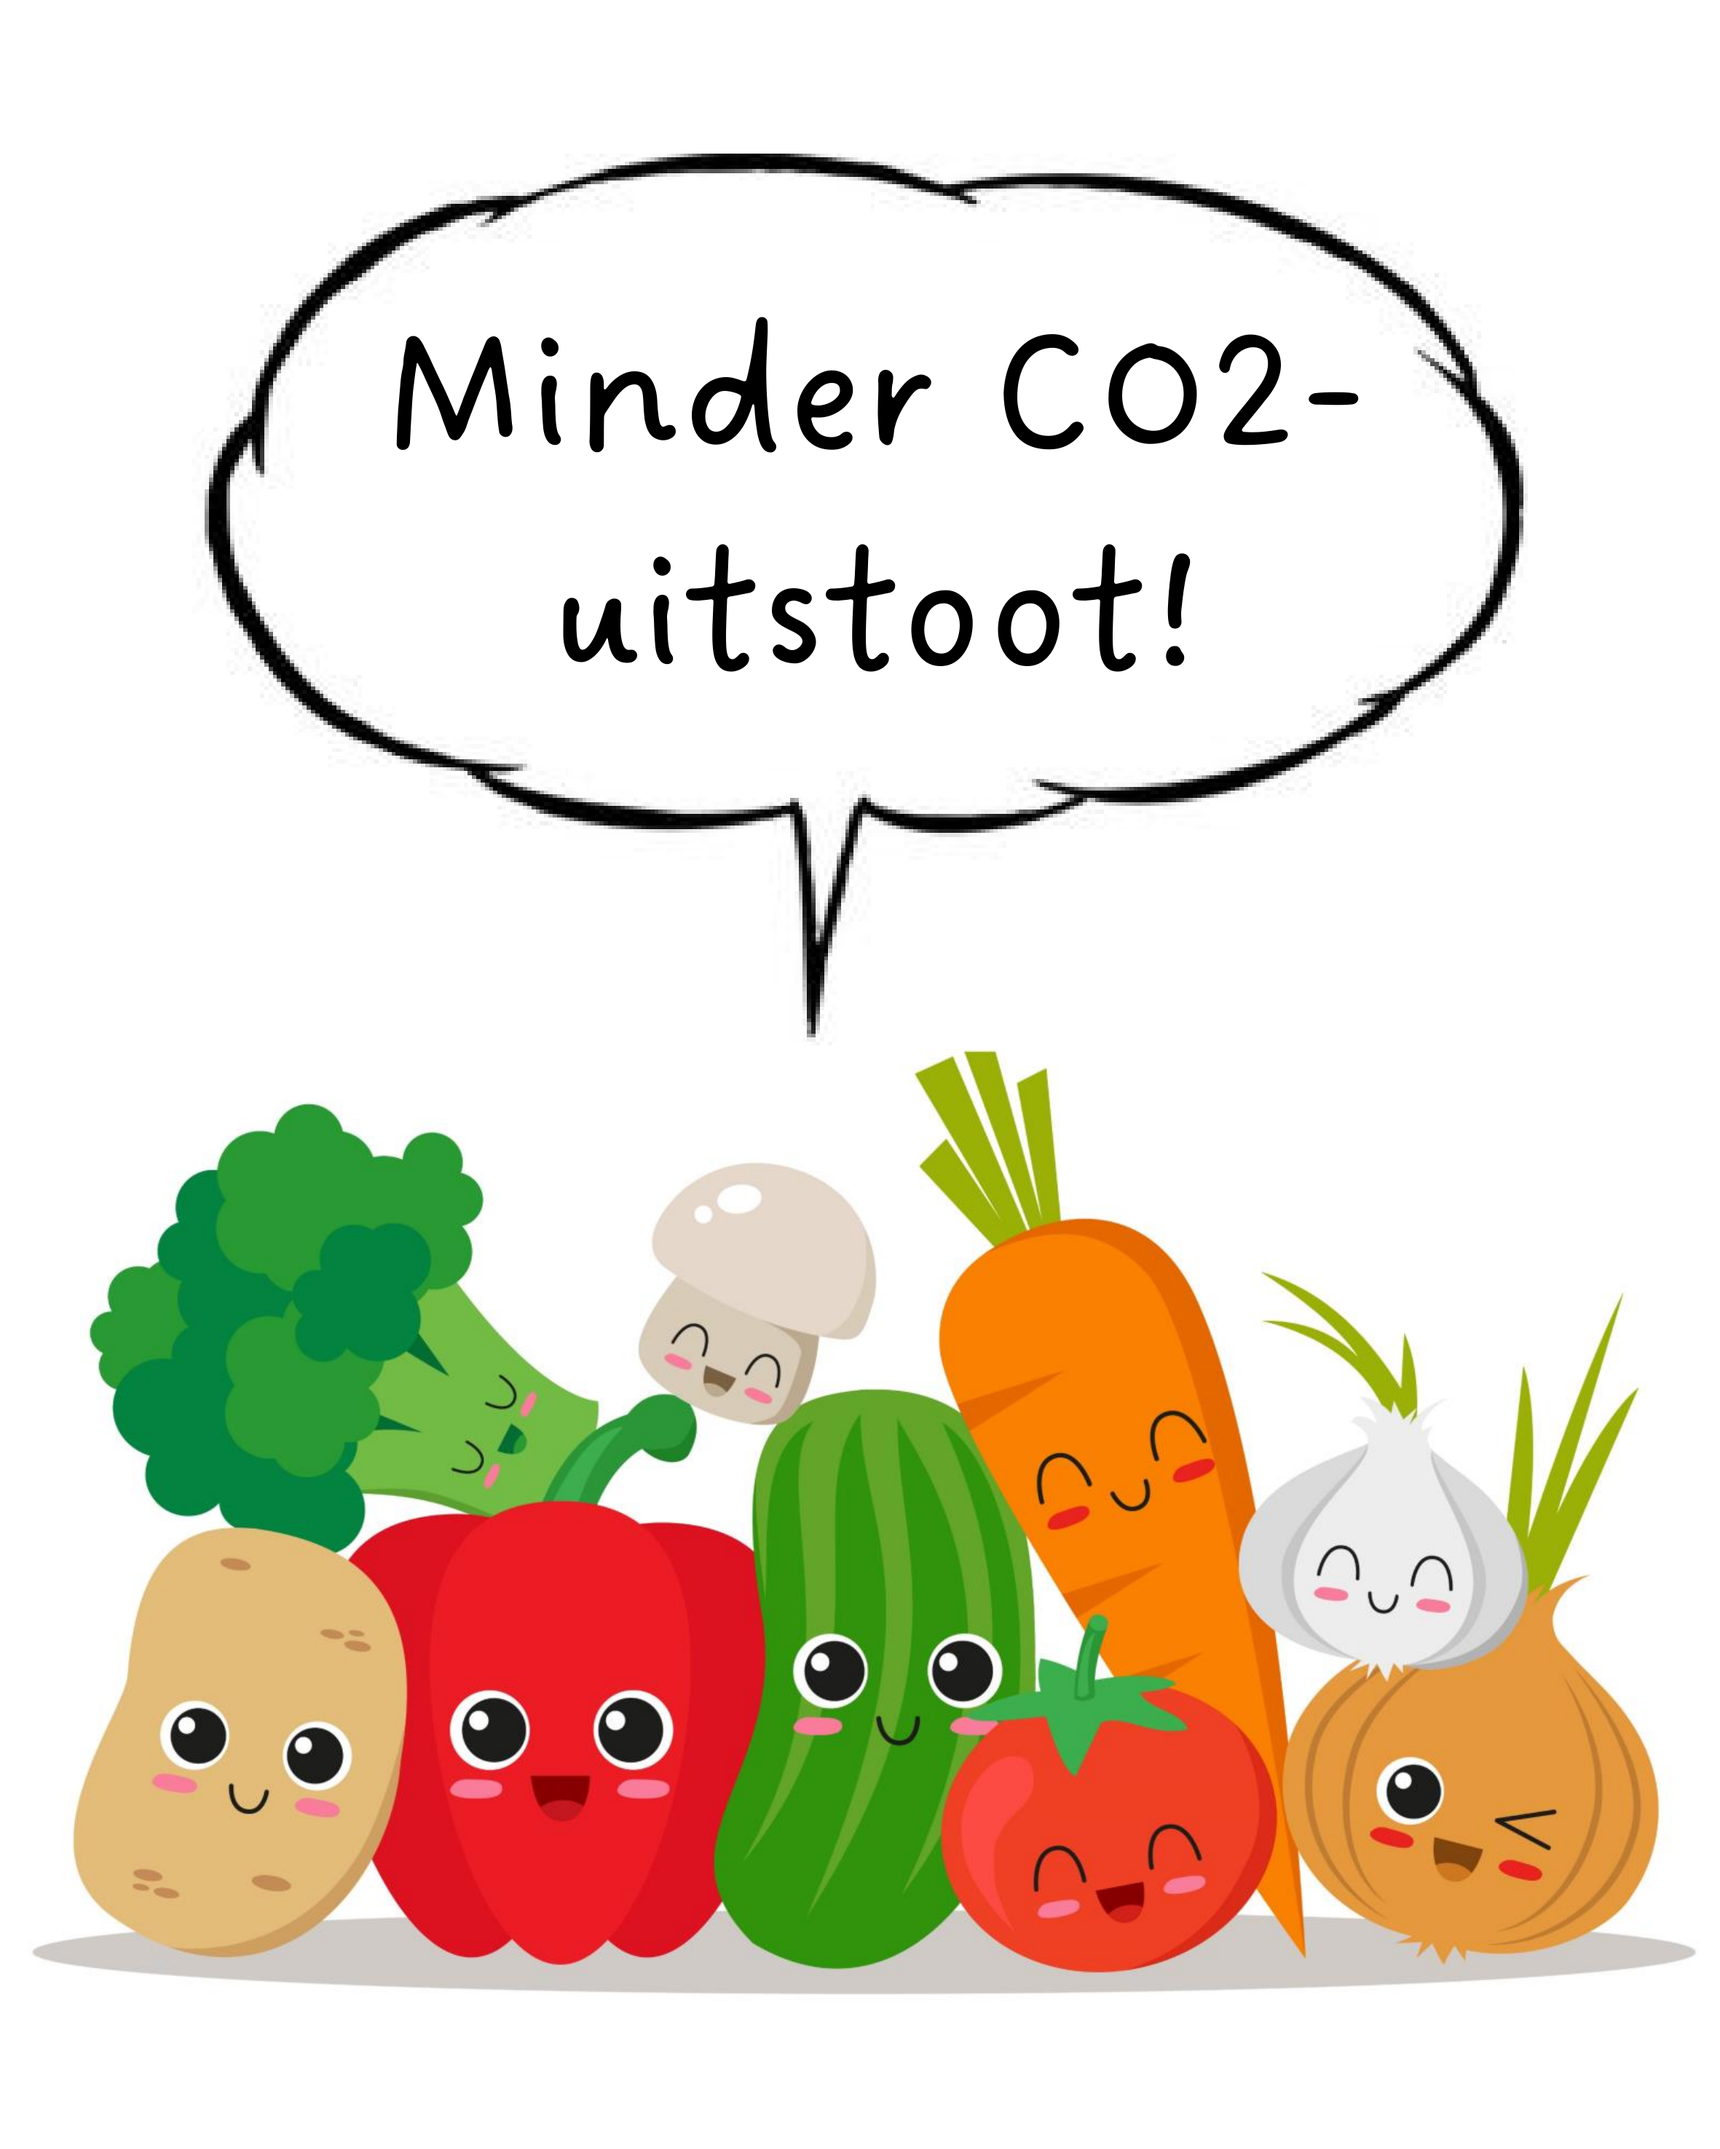
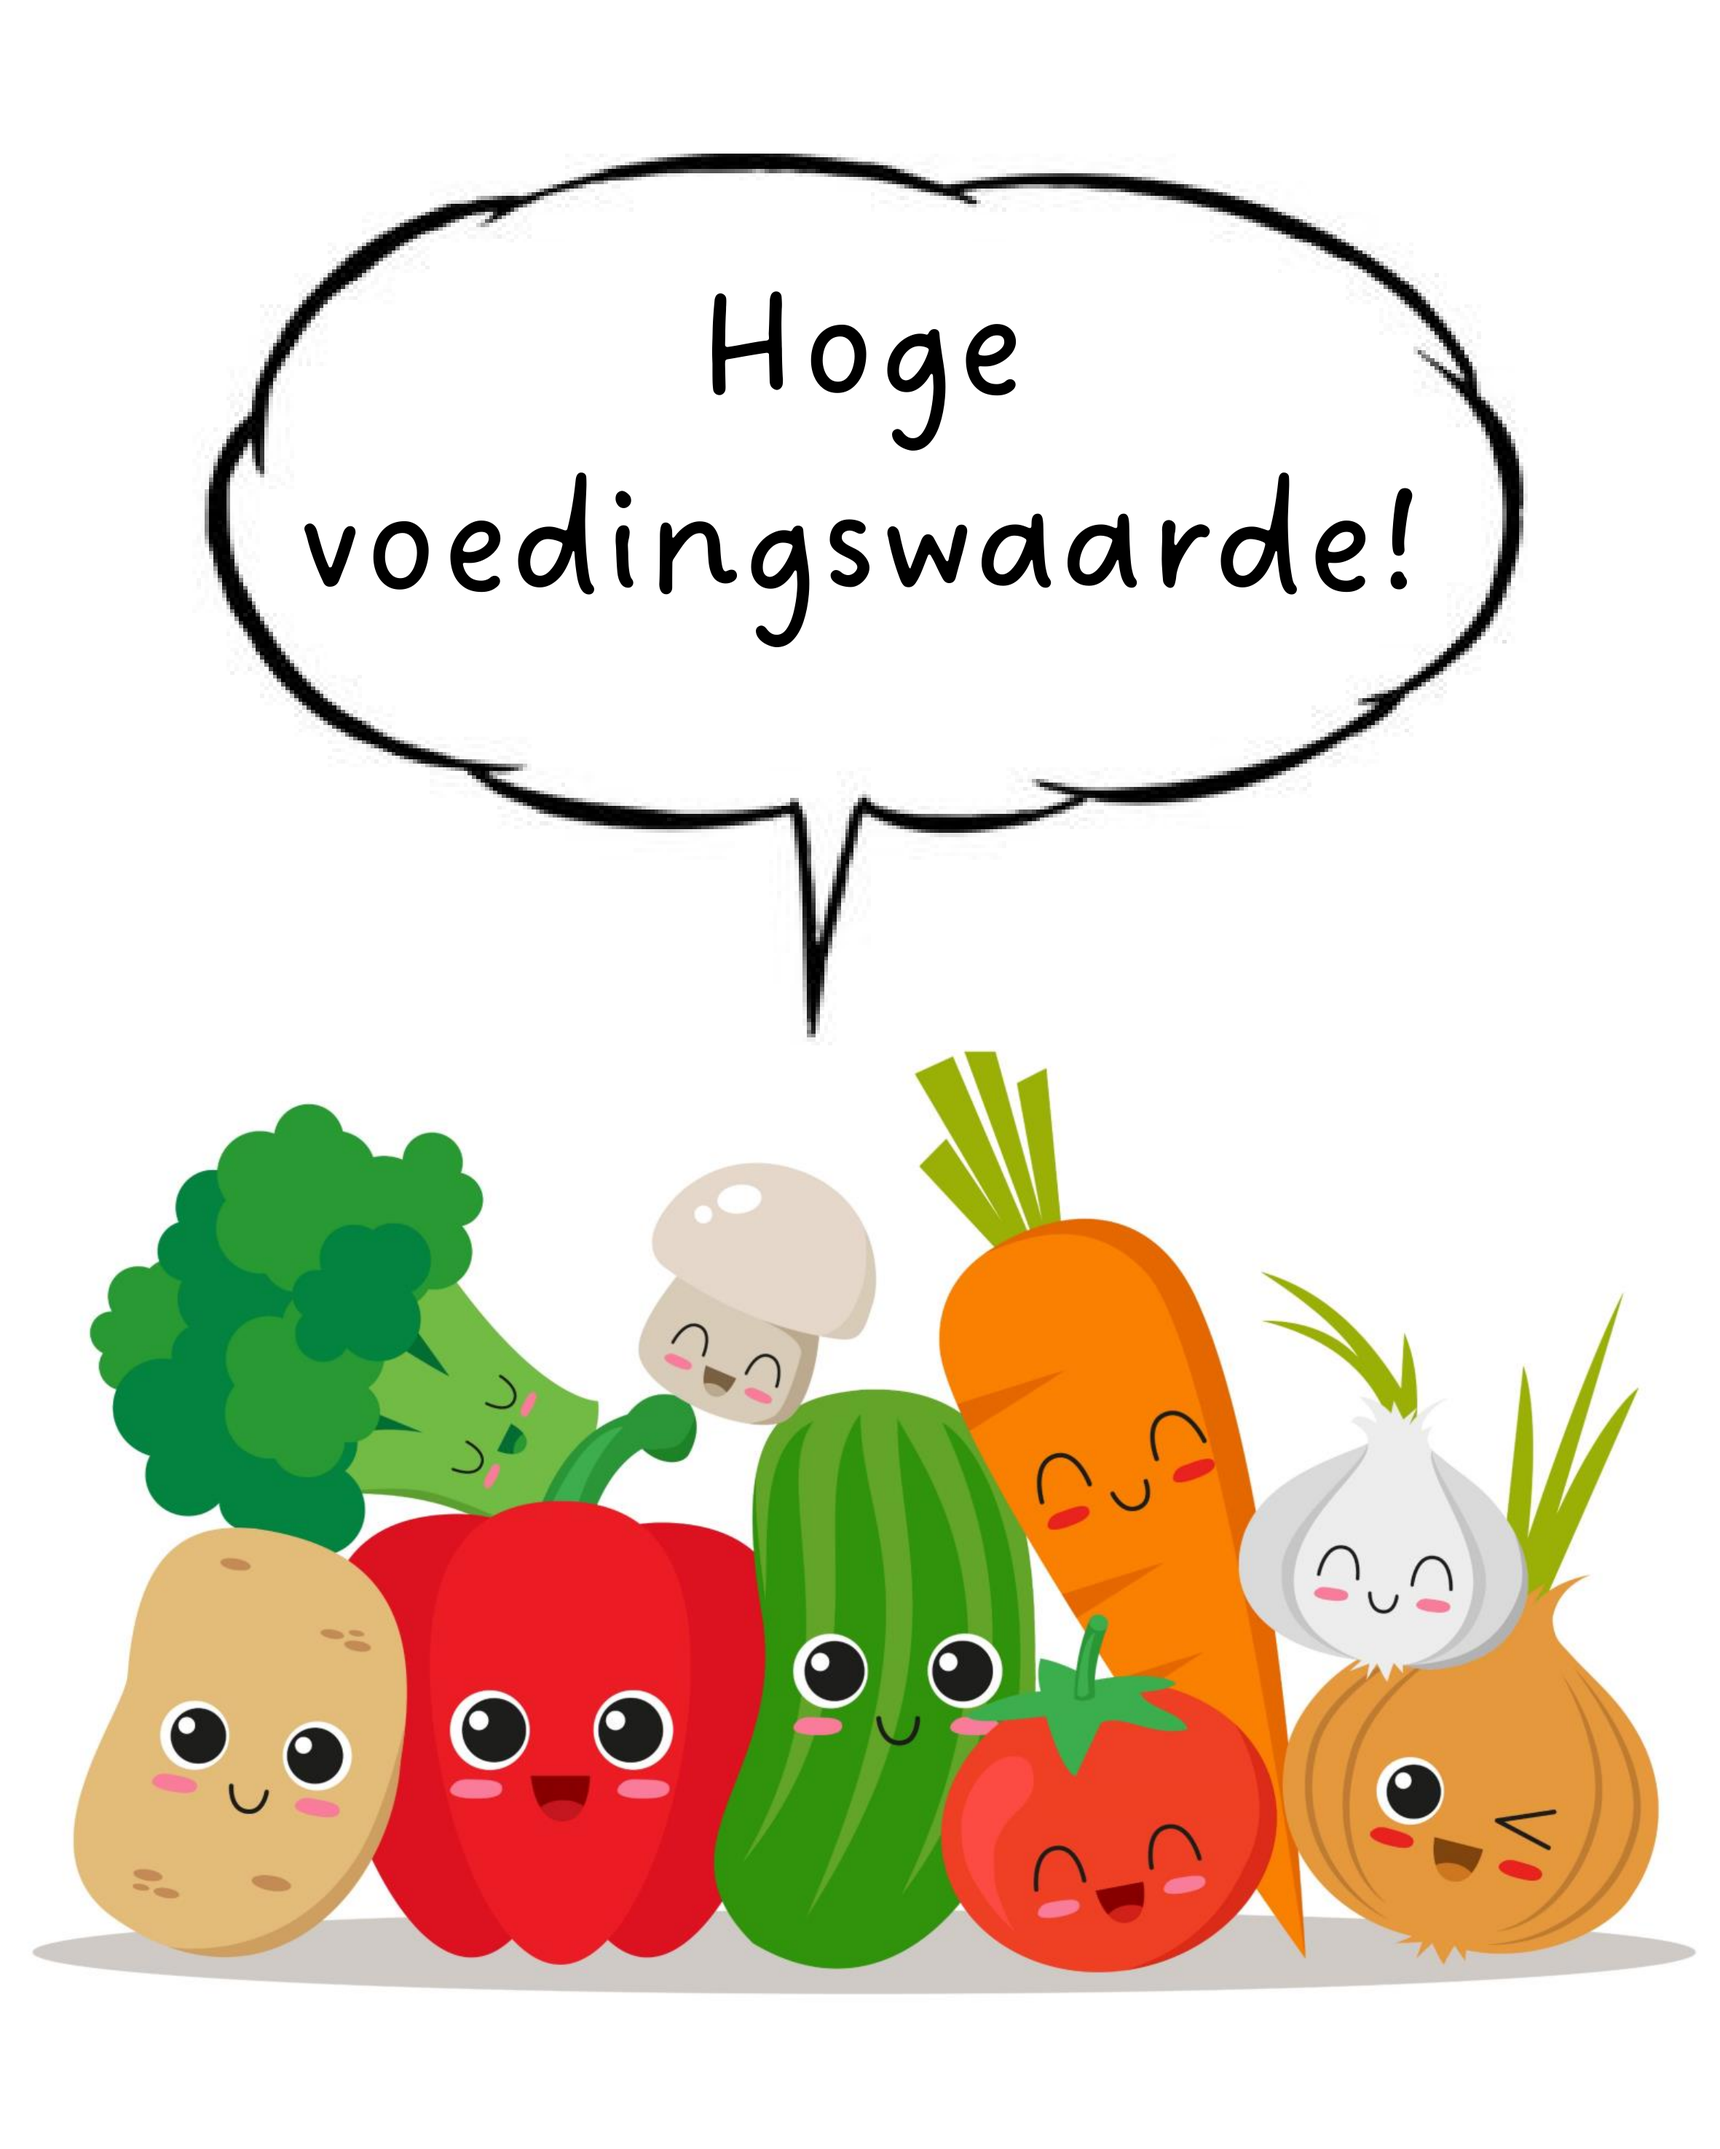
Changed homepage/changed hero/changed cartoon

Changed region(s): [[0.1854, 0.1247, 0.8345, 0.3117]]

diff --git a/src/pages/shop/hero.jsx b/src/pages/shop/hero.jsx
@@ -1,13 +1,13 @@
 import React from 'react'
-import biosferisch from '../../assets/Biosferisch.jpg'
+import egoistisch from '../../assets/Egoistisch.jpg'
 
 export const Hero = () => {
   return (
     <div className='relative h-screen mb-20 -mt-20 p-4'>
-        <img className='absolute inset-0 object-cover h-full max-h-screen w-screen -z-10 brightness-50' src={biosferisch} />
+        <img className='absolute inset-0 object-cover h-full max-h-screen w-screen -z-10 brightness-50' src={egoistisch} />
         <div className='max-w-7xl mx-auto flex flex-col justify-center items-center w-full h-full'>
           <h1 className='text-3xl md:text-4xl lg:text-6xl text-white font-extrabold opacity-100 mb-5 text-center'>Waarom kiezen voor de Buurtwinkel?</h1>
-          <h2 className='text-white text-xl lg:text-2xl font-bold mb-5 text-center'>Het klimaat is voor ons erg belangrijk. Omdat er mindere energie wordt verbruikt voor transport, verpakkingen en het bewaren, hebben onze producten een lagere milieubelasting. Door bij ons te kopen verlaag je je CO2-voetafdruk!
+          <h2 className='text-white text-xl lg:text-2xl font-bold mb-5 text-center'>Bewust en gezond eten is voor ons erg belangrijk. Onze producten worden door kleinschalige, lokale ondernemers geproduceerd. U weet dus precies waar uw voedsel vandaan komt. Daarnaast zitten de producten bomvol vitaminen en andere gezonde voedingswaarden!
           </h2>
           <button className='rounded-full bg-primary text-white font-bold px-4 py-2 w-fit text-xl hover:bg-primaryhover' onClick={e => {
             let shop = document.getElementById("shop-scroll-anchor");

diff --git a/src/pages/shop/shop.jsx b/src/pages/shop/shop.jsx
@@ -18,7 +18,7 @@ export const Shop = () => {
           <div className='sm:sticky sm:top-20 p-4 w-full'>
             <img src={Cartoon} className='object-cover' />
             <div className='bg-primary bg-opacity-10'>
-              <p className='text-lg px-4 pt-4 mb-2 italic '>“In plaats van tomaten uit Zuid-Afrika, bestel ik liever de tomaten uit de kas in de buurt. Geen onnodige voedselkilometers en dus minder CO2. Buurtwinkel maakt dit mogelijk!”</p>
+              <p className='text-lg px-4 pt-4 mb-2 italic '>“Door bij Buurtwinkel te kopen weet ik precies waar mijn groenten en vlees vandaan komen. Veilige en gezonde producten van betrouwbare producenten.”</p>
               <p className='pb-4 px-4 font-bold text-lg italic'>Petra van S.</p>
               <div className='flex px-4 pb-4 justify-between'>
                 <svg xmlns="http://www.w3.org/2000/svg" fill="none" viewBox="0 0 24 24" stroke-width="1.5" stroke="currentColor" class="w-12 h-12 sm:w-10 sm:h-10 text-gray-700 fill-yellow-300">
